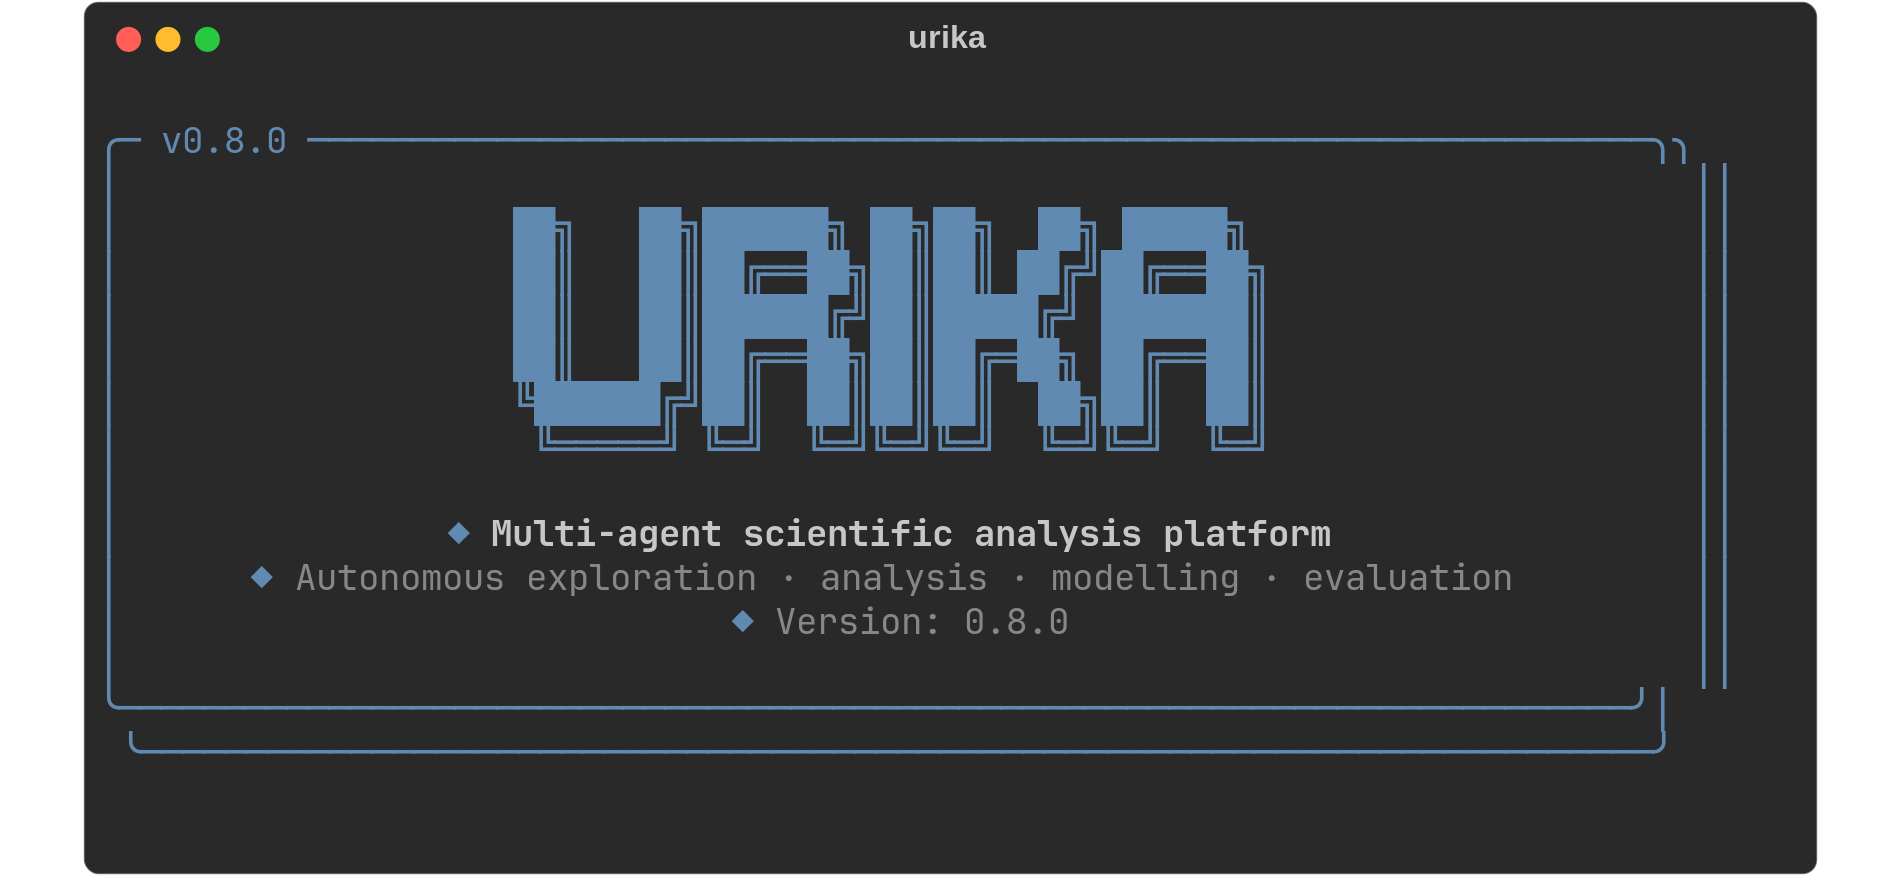
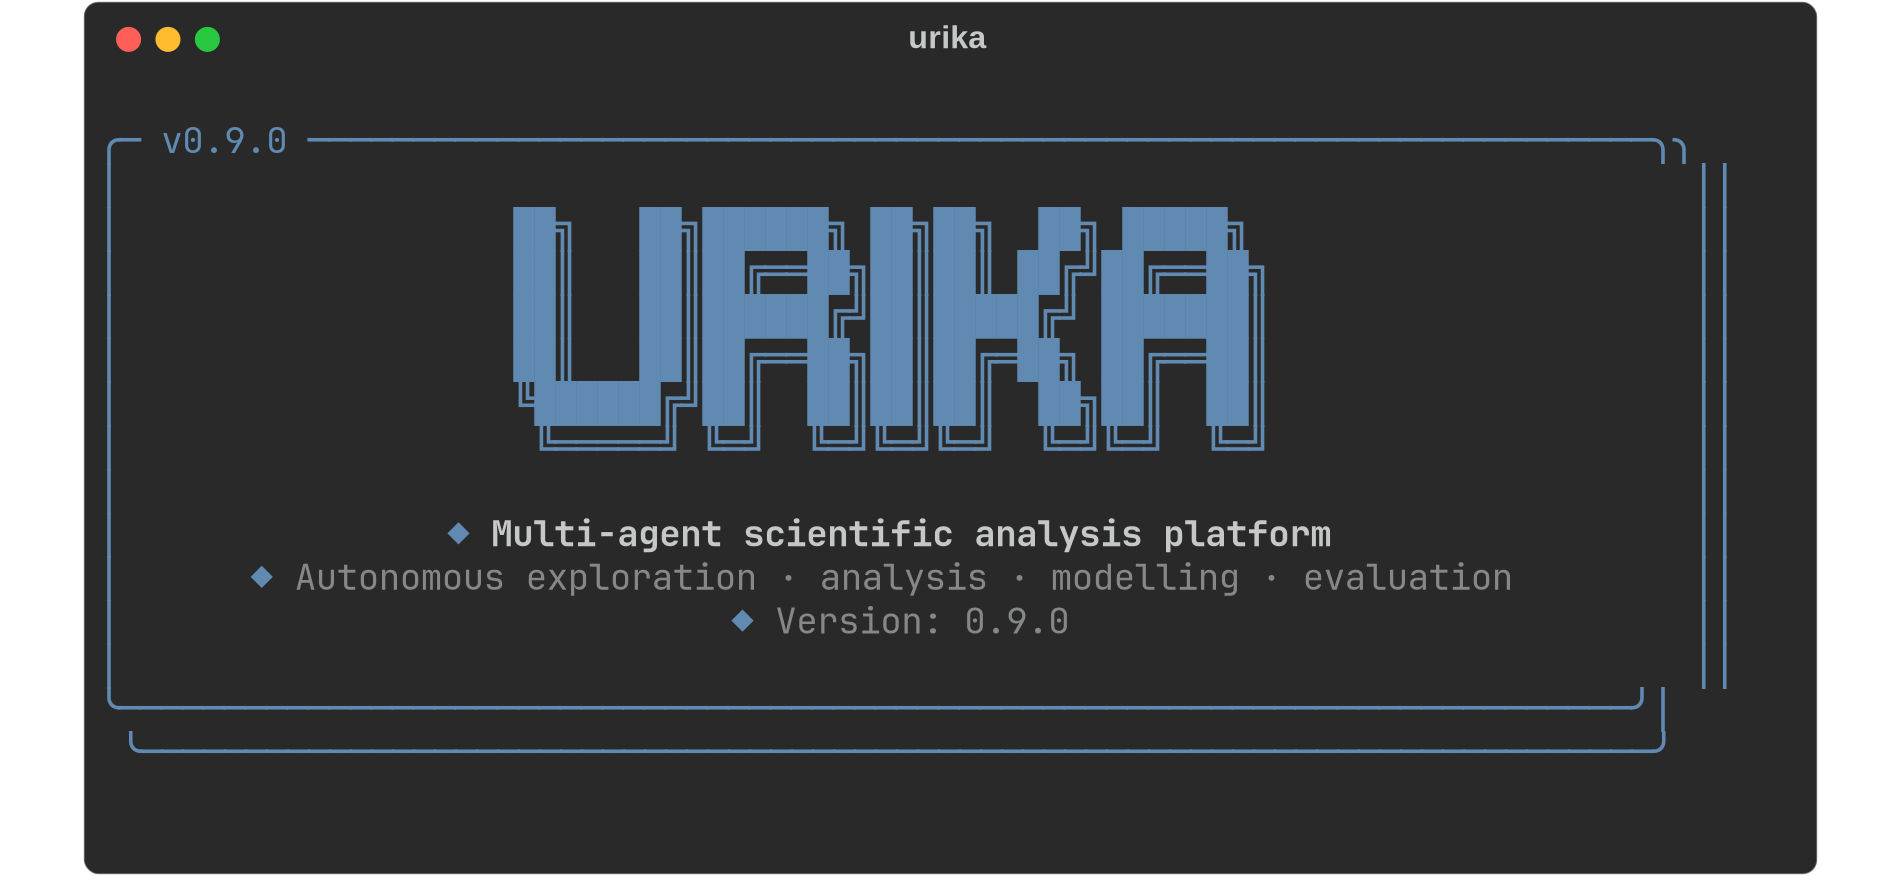
release: regenerate header + bump README cache-buster for v0.9.0

diff --git a/README.md b/README.md
@@ -1,5 +1,5 @@
 <p align="center">
-  <img src="docs/assets/header.png?v=0.8.0" alt="Urika" width="580">
+  <img src="docs/assets/header.png?v=0.9.0" alt="Urika" width="580">
 </p>
 
 <p align="center">
